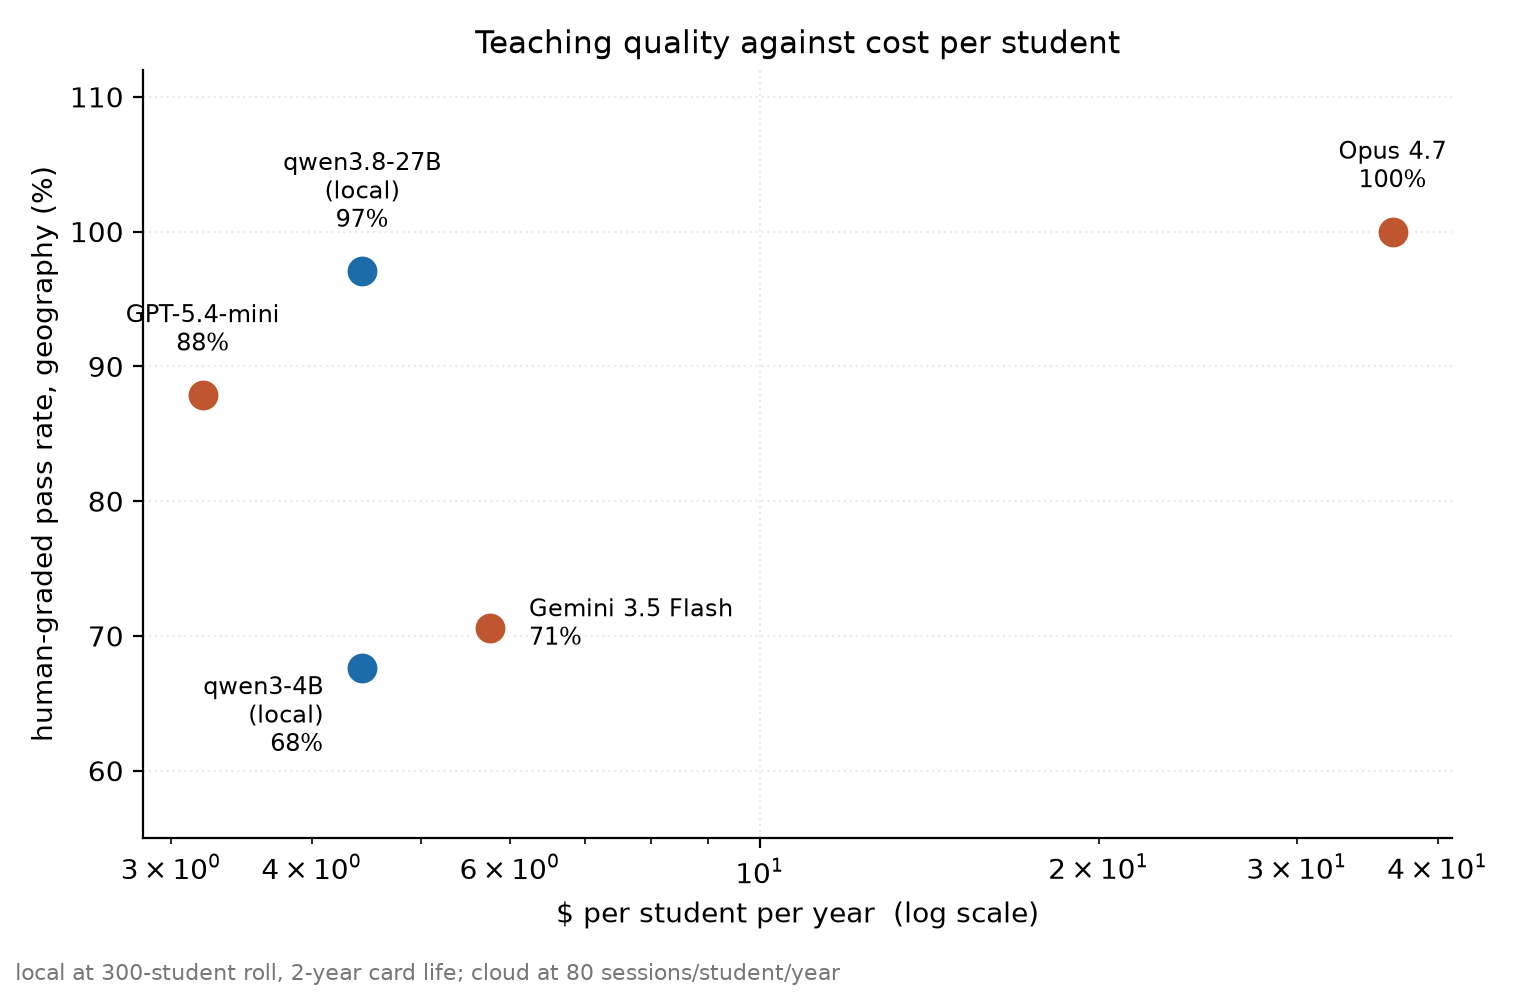
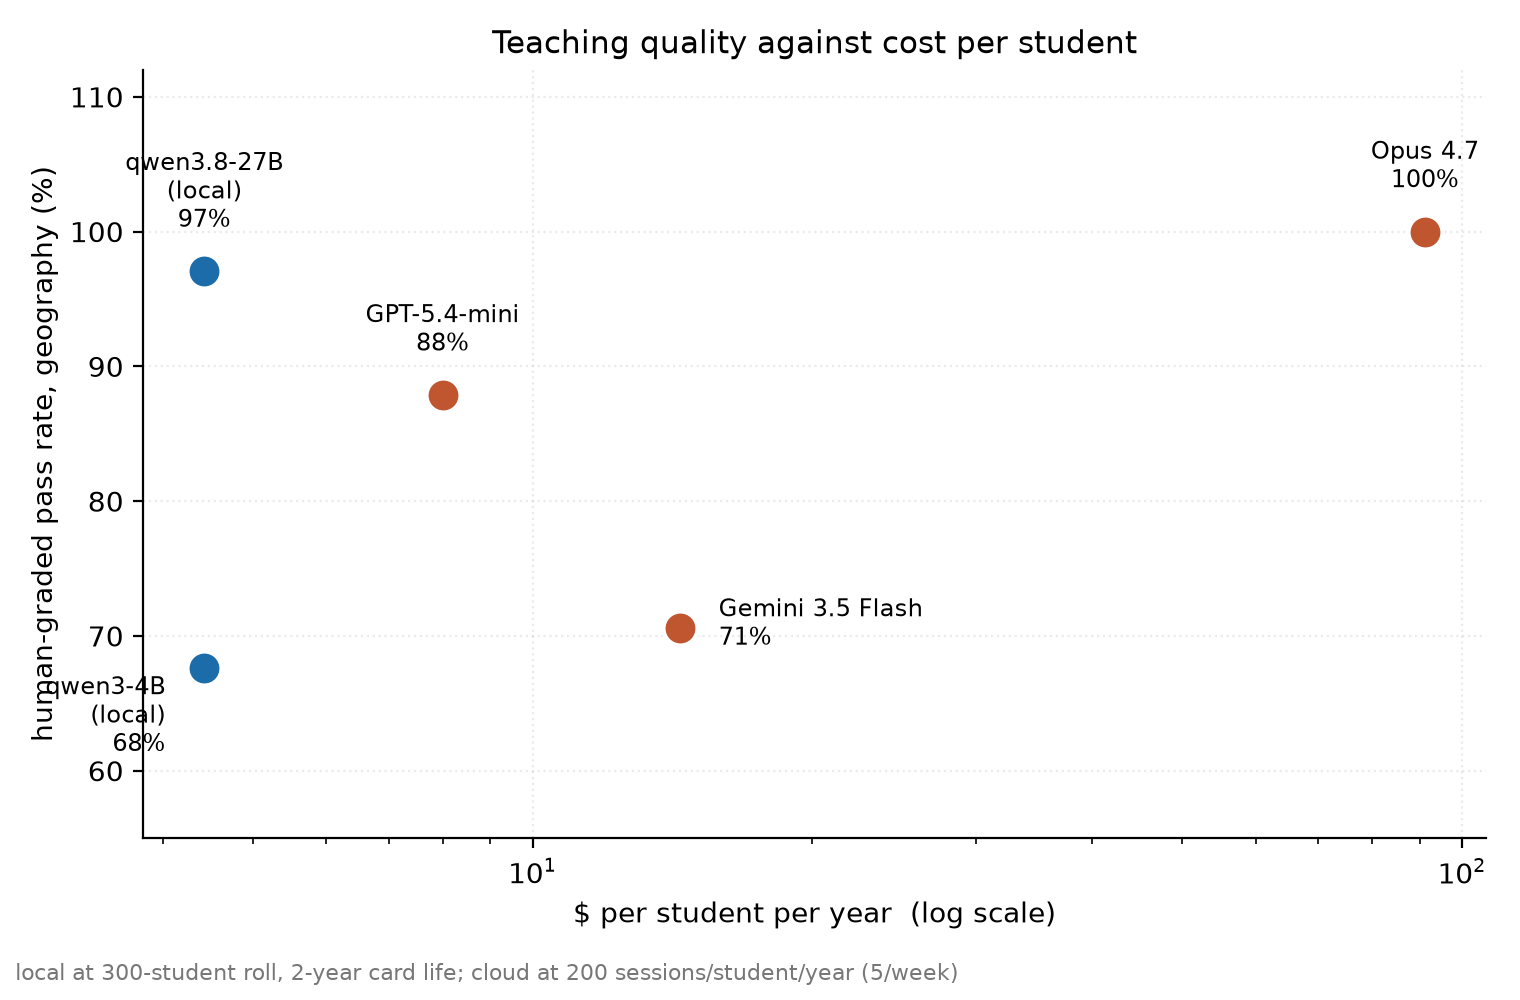
offline eval: reprice at the pilot's real usage — 5-10 sessions/week
The cost model assumed 2 sessions per student per week. The pilot expects 5-10.
That single number scales the entire cloud column and leaves the GPU column
untouched, so it decides the comparison on its own — and it reverses the
conclusion.

At 2/week, GPT-5.4-mini was cheaper than the card at every school-scale roll,
and the offline case had to rest on connectivity and data residency alone. At
5-10/week the cost case stands by itself:

  crossover roll        @200/yr        @400/yr
  vs Opus               28 / 15        14 / 7      (1-yr / 2-yr card)
  vs Gemini Flash      179 / 92        90 / 46
  vs GPT-5.4-mini      322 / 166      161 / 83

At a 150-300 roll the card now beats every cloud tier except one corner case —
a 150-student school replacing the card every year, against the cheapest cloud
model. Against Opus it is a factor of 20 to 40: $27,330-$54,660 a year for 300
students, against $1,330 for a 2-year card.

fig3 now draws the cloud tiers as a BAND spanning 5-10 sessions/week rather
than a line. Usage is the dominant uncertainty in the whole analysis, and a
single line would hide precisely the sensitivity that flips the answer.

The document says plainly that usage is the pivot, so a reader can substitute
their own timetable rather than inherit this one. cost_model.py --sessions N
regenerates every table.

Refs: memory/cloud_arms_plan.md

diff --git a/offline_eval/make_figures.py b/offline_eval/make_figures.py
@@ -37,7 +37,7 @@ COST_SESSION = {           # $/session, mean of the two boards
     "claude-opus-4-7": 0.456, "gemini-3.5-flash": 0.072, "gpt-5.4-mini": 0.040,
 }
 GPU_CAPITAL, GPU_POWER_YR = 2500.0, 80.0
-SESSIONS_YR = 80
+SESSIONS_YR = 200          # 5 sessions/week x 40 weeks — the pilot's low end
 
 
 def grades():
@@ -120,7 +120,7 @@ def fig_quality_cost(g):
     ax.grid(alpha=0.25, ls=":")
     for s in ("top", "right"): ax.spines[s].set_visible(False)
     fig.text(0.01, 0.02,
-             "local at 300-student roll, 2-year card life; cloud at 80 sessions/student/year",
+             "local at 300-student roll, 2-year card life; cloud at 200 sessions/student/year (5/week)",
              fontsize=8, color=GREY)
     fig.tight_layout(rect=(0, 0.04, 1, 1))
     fig.savefig(OUT / "fig2_quality_vs_cost.png", dpi=200)
@@ -133,10 +133,17 @@ def fig_crossover():
         y = [(GPU_CAPITAL / years + GPU_POWER_YR) / r for r in rolls]
         ax.plot(rolls, y, ls, color=LOCAL, lw=2,
                 label=f"RTX 3090, {years}-year life")
+    # A band, not a line: usage is the dominant uncertainty and it moves the
+    # cloud cost by 2x across the pilot's stated 5-10 sessions/week, while
+    # leaving the GPU curves untouched. Drawing one line would hide the very
+    # sensitivity that decides the comparison.
     for m, c in COST_SESSION.items():
-        v = c * SESSIONS_YR
-        ax.axhline(v, color=CLOUD, lw=1.4, alpha=0.85)
-        ax.text(880, v * 1.06, m, fontsize=8, color=CLOUD, ha="right")
+        lo, hi = c * 200, c * 400
+        ax.fill_between([0, 900], lo, hi, color=CLOUD, alpha=0.13, lw=0)
+        ax.plot([0, 900], [lo, lo], color=CLOUD, lw=1.3, alpha=0.9)
+        # Left-aligned: the legend sits top-right and the Opus band runs
+        # along the top, so a right-aligned label lands underneath it.
+        ax.text(360, hi * 1.06, m, fontsize=8, color=CLOUD, ha="left")
     ax.axvspan(150, 300, color=GREY, alpha=0.12)
     ax.text(225, 60, "typical\nschool roll", fontsize=8.5, color=GREY,
             ha="center", va="top")
@@ -144,10 +151,14 @@ def fig_crossover():
     ax.set_xlabel("students sharing one GPU")
     ax.set_ylabel("$ per student per year  (log scale)")
     ax.set_title("Where a bought GPU beats a metered API", fontsize=11)
-    ax.legend(fontsize=9, frameon=False, loc="upper right")
+    ax.set_xlim(0, 900)
+    ax.legend(fontsize=9, frameon=False, loc="lower left")
     ax.grid(alpha=0.25, ls=":")
     for s in ("top", "right"): ax.spines[s].set_visible(False)
-    fig.tight_layout()
+    fig.text(0.01, 0.02,
+             "shaded band = 5 to 10 tutoring sessions per student per week; "
+             "GPU curves do not move with usage", fontsize=8, color=GREY)
+    fig.tight_layout(rect=(0, 0.05, 1, 1))
     fig.savefig(OUT / "fig3_crossover.png", dpi=200)
 
 

diff --git a/offline_eval/cost_model.py b/offline_eval/cost_model.py
@@ -49,9 +49,15 @@ def gpu_cost_per_student_year(students, years, hours_per_school_day=6,
 
 def main():
     ap = argparse.ArgumentParser()
-    ap.add_argument("--sessions", type=int, default=80,
+    # 200 = 5 sessions/week x 40 weeks, the low end of the pilot's expected
+    # 5-10/week. This single number scales the ENTIRE cloud column and leaves
+    # the GPU column untouched, so it decides the comparison on its own: at the
+    # 80/yr first assumed, the cheap cloud tier beat the card at school scale;
+    # at 200 the card wins. It is the first thing to check against a real
+    # timetable, and the first thing a reviewer should ask about.
+    ap.add_argument("--sessions", type=int, default=200,
                     help="tutoring sessions per student per year "
-                         "(default 80 = 2/week x 40 weeks)")
+                         "(default 200 = 5/week x 40 weeks; 400 = 10/week)")
     args = ap.parse_args()
     S = args.sessions
 

diff --git a/offline_eval/LATENCY_AND_COST.md b/offline_eval/LATENCY_AND_COST.md
@@ -175,19 +175,21 @@ something once both are per student per year.
   over the roll and the card's life. Cost per student *falls* as the school
   grows — the opposite shape.
 
-Assumption: **80 sessions per student per year** (2/week x 40 weeks), and the
-mean of the two boards' per-session cost, since a real timetable mixes
-subjects.
+**Usage assumption: 5-10 tutoring sessions per student per week**, i.e.
+200-400 per year over 40 teaching weeks. This single number scales the entire
+cloud column and leaves the GPU column untouched, so it decides the comparison
+on its own. Figures below use 200/yr (the low end); the 400/yr column is given
+alongside.
 
-### Cloud
+### Cloud, at 200 and 400 sessions/student/year
 
-| model | $/session | $/student/yr | 150 students | 300 students |
+| model | $/session | $/student/yr @200 | @400 | 300 students @200 |
 |---|---:|---:|---:|---:|
-| claude-opus-4-7 | 0.456 | **$36.44** | $5,466 | $10,932 |
-| gemini-3.5-flash | 0.072 | **$5.76** | $864 | $1,728 |
-| gpt-5.4-mini | 0.040 | **$3.20** | $480 | $960 |
+| claude-opus-4-7 | 0.456 | **$91.10** | $182.20 | $27,330 |
+| gemini-3.5-flash | 0.072 | **$14.40** | $28.80 | $4,320 |
+| gpt-5.4-mini | 0.040 | **$8.00** | $16.00 | $2,400 |
 
-### Offline — one RTX 3090
+### Offline — one RTX 3090, unchanged by usage
 
 | roll | card life | $/student/yr | total/yr |
 |---:|---:|---:|---:|
@@ -197,40 +199,39 @@ subjects.
 | 300 | 2 years | **$4.43** | $1,330 |
 
 ($2,500 capital plus ~$80/yr electricity at 350W, 6h/day, 190 school days,
-$0.20/kWh.)
+$0.20/kWh. Electricity is under 6% of the total, so even a 3x tariff error
+moves the per-student figure by well under a dollar.)
 
-### The result that matters, and it is not the convenient one
+### At this usage the GPU wins at school scale
 
-**At a 150-300 student roll, the cheap cloud tier is cheaper than the GPU.**
-GPT-5.4-mini costs $3.20 per student per year against the card's $4.43 at its
-most favourable assumption (300 students, 2-year life) and $17.20 at its least.
+The crossover — the roll above which the card is cheaper:
 
-The crossover — the roll at which the card becomes cheaper:
+| model | @200/yr, 1-yr card | @200/yr, 2-yr | @400/yr, 1-yr | @400/yr, 2-yr |
+|---|---:|---:|---:|---:|
+| claude-opus-4-7 | **28** | **15** | **14** | **7** |
+| gemini-3.5-flash | 179 | 92 | 90 | 46 |
+| gpt-5.4-mini | 322 | 166 | 161 | 83 |
 
-| model | 1-year card life | 2-year card life |
-|---|---:|---:|
-| claude-opus-4-7 | **71 students** | **36 students** |
-| gemini-3.5-flash | 448 | 231 |
-| gpt-5.4-mini | 806 | 416 |
+At a 150-300 roll and 5-10 sessions/week:
 
-So the honest summary is split:
+- **Against Opus it is not close.** A 300-student school pays $27,330-$54,660
+  a year for Opus against $1,330 for a 2-year card — a factor of 20 to 40.
+- **Against Gemini Flash the card wins throughout** the school-roll band on a
+  2-year life, and above ~180 students on a 1-year life.
+- **Against GPT-5.4-mini, the cheapest cloud tier, the card wins** at 300
+  students on either card life, and at 150 students on a 2-year life. The one
+  case it loses is a 150-student school replacing the card annually — an
+  unusually harsh assumption.
 
-- **Against a frontier model, the GPU wins easily.** Opus is beaten by the card
-  at any roll above ~71 students, and a 300-student school pays $10,932/yr for
-  Opus against $1,330 for the card.
-- **Against a cheap cloud tier, the GPU does not win on cost at this scale.**
-  GPT-5.4-mini beats one 3090 until roughly 400-800 students.
+**This reverses the picture at low usage.** At the 2 sessions/week first
+modelled, GPT-5.4-mini was cheaper than the card at every school-scale roll and
+the offline case had to rest on connectivity and data residency alone. At the
+pilot's actual 5-10/week, the cost case stands on its own: cloud spend scales
+with every lesson taught, and the card does not. Usage is the pivot, and it is
+worth stating in the paper as such rather than presenting one figure.
 
-**The offline case therefore does not rest on cost alone at 150-300 students.**
-It rests on what the metered tiers cannot offer: working without connectivity,
-no per-use bill that grows with adoption, no data leaving the school, and no
-exposure to price or availability changes. Those are the arguments the
-deployment stands on; cost parity with the cheap cloud tier is a supporting
-fact, not the headline.
-
-Quality changes this again, though — see below.
-
----
+Connectivity, no bill that grows with adoption, and data staying in the school
+remain true, and they are now supporting arguments rather than the whole case.
 
 ## 7. Quality, from 169 human grades (geography)
 
